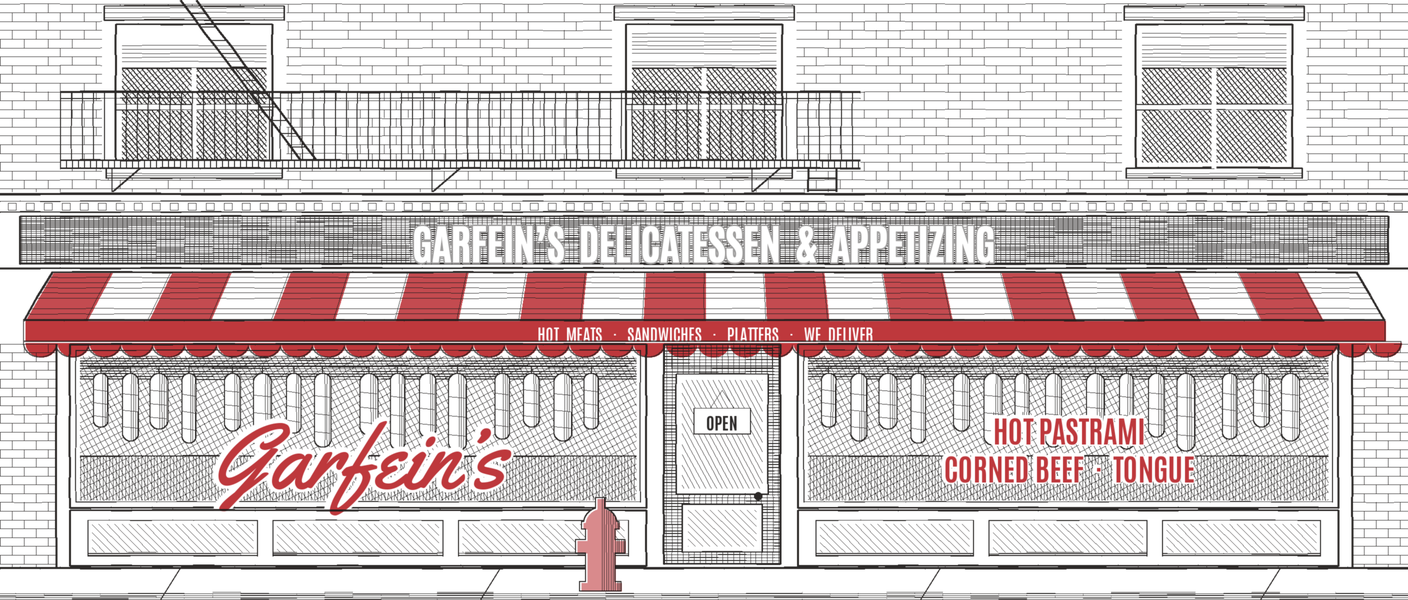
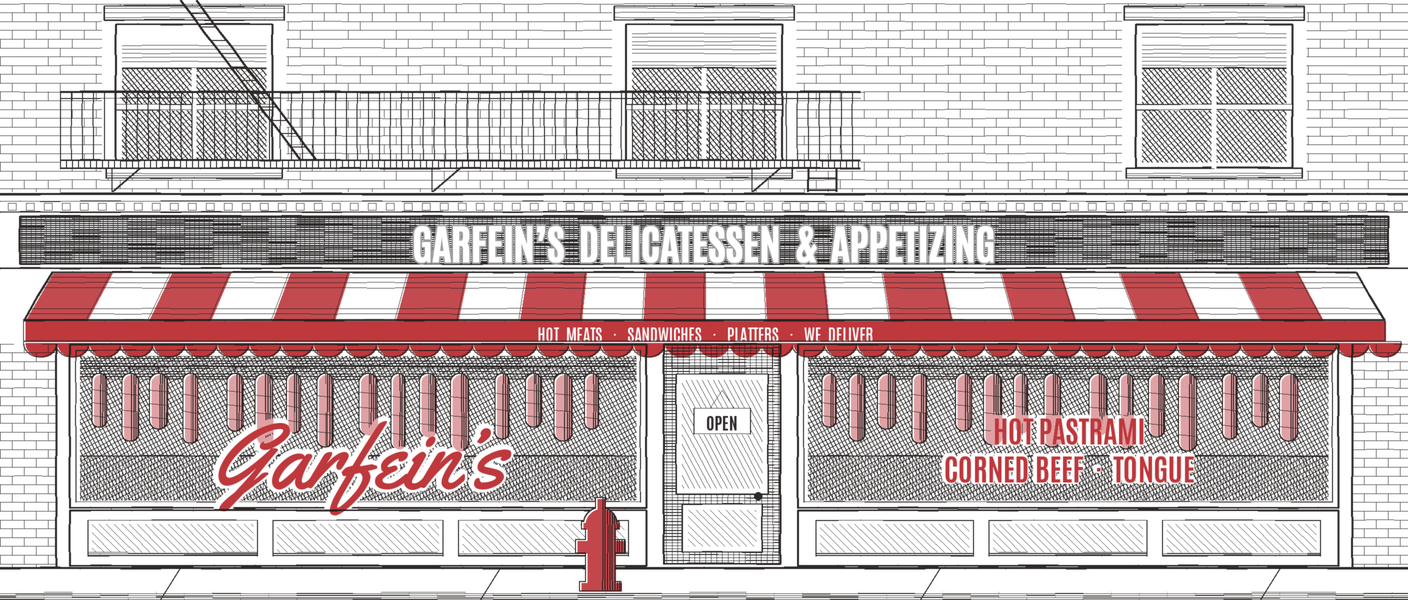
WIP: pilot builds in progress
Claude-Session: https://claude.ai/code/session_01X8MY2cd64W8hRNnJ8H5qJf

Changed region(s): [[0.0, 0.57, 1.0, 1.0], [0.0, 0.36, 1.0, 0.54]]

diff --git a/wip/print/pelham/paint.py b/wip/print/pelham/paint.py
@@ -11,73 +11,15 @@ A = os.path.join(D, 'assets'); F = os.path.join(D, 'fonts')
 BROWN = (46, 31, 24); ORANGE = (201, 83, 29)
 random.seed(123)
 
-# ---------- 1. halftone photo ----------
-STILL = os.path.join(D, 'assets', 'src-still.jpg')
+# ---------- 1. the photo: clean crop of the TMDB still, shadows lifted a touch for print ----------
+STILL = os.path.join(A, 'src-still.jpg')
 if not os.path.exists(STILL):
     subprocess.run(['curl', '-s', '-o', STILL, 'https://image.tmdb.org/t/p/original/syWyIUCzKB0xYiDpKlYbgV7ctGi.jpg'], check=True)
-BW, BH = 1440, 520                      # 2x of a 720 x 260 box
 src = Image.open(STILL).convert('RGB')
 sw, sh = src.size
-ch = int(sw * BH / BW); top = 170
-src = src.crop((0, top, sw, top + ch)).resize((BW, BH), Image.LANCZOS)
-
-
-def lum(im):
-    g = im.convert('L')
-    # the still is dark: lift the shadows so the platform, columns and roof read in print
-    lut = [int(255 * ((i / 255) ** 0.38)) for i in range(256)]
-    g = g.point(lut)
-    g = g.point(lambda v: max(0, min(255, int((v - 40) * 1.32))))
-    return g
-
-
-def screen(gray, cell, angle, gain=1.0, floor=0.0):
-    """Classic AM halftone: dark = big dots. Returns an L coverage mask."""
-    W0, H0 = gray.size
-    P = 80                                          # pad with edge pixels so the screen runs to the edges
-    padded = Image.new('L', (W0 + 2 * P, H0 + 2 * P))
-    padded.paste(gray.resize((W0 + 2 * P, H0 + 2 * P)), (0, 0)); padded.paste(gray, (P, P))
-    gray = padded; W, H = gray.size
-    rot = gray.rotate(angle, resample=Image.BICUBIC, expand=True, fillcolor=255)
-    rw, rh = rot.size
-    S = 4                                           # supersample for smooth dots
-    out = Image.new('L', (rw * S, rh * S), 0)
-    dr = ImageDraw.Draw(out)
-    px = rot.load()
-    for y in range(0, rh, cell):
-        for x in range(0, rw, cell):
-            cx, cy = min(rw - 1, x + cell // 2), min(rh - 1, y + cell // 2)
-            dark = (255 - px[cx, cy]) / 255 * gain
-            if dark <= floor:
-                continue
-            r = cell * 0.62 * math.sqrt(min(1.0, dark))
-            dr.ellipse(((x + cell / 2 - r) * S, (y + cell / 2 - r) * S, (x + cell / 2 + r) * S, (y + cell / 2 + r) * S), fill=255)
-    out = out.resize((rw, rh), Image.LANCZOS)
-    out = out.rotate(-angle, resample=Image.BICUBIC, expand=False)
-    ox, oy = (rw - W) // 2 + P, (rh - H) // 2 + P
-    return out.crop((ox, oy, ox + W0, oy + H0))
-
-
-g = lum(src)
-k = screen(g, 6, 45, gain=0.9)
-# second ink: the red headlights and the glow, pulled from the red channel's lead over green
-r, gg, b = src.split()
-red = ImageChops.subtract(r, gg).point(lambda v: min(255, v * 3))
-red = red.filter(ImageFilter.GaussianBlur(3))
-o = screen(Image.eval(red, lambda v: 255 - v), 6, 15, gain=1.0, floor=0.06)
-
-
-def ink(mask, col, alpha=1.0):
-    lay = Image.new('RGBA', mask.size, col + (0,))
-    lay.putalpha(mask.point(lambda v: int(v * alpha)))
-    return lay
-
-
-ph = Image.new('RGBA', (BW, BH), (0, 0, 0, 0))
-ph.alpha_composite(ink(o, ORANGE, 0.95), (2, 1))   # slight misregister of the second plate
-ph.alpha_composite(ink(k, BROWN, 0.86))
-# soft letterpress edge: ink a touch lighter toward the right, like a real press sheet
-ph.save(os.path.join(A, 'photo-halftone.png'))
+ph = src.crop((0, 120, sw, 120 + int(sw * 330 / 720)))
+ph = ph.point([int(255 * ((i % 256) / 255) ** 0.8) for i in range(768)])
+ph.resize((1440, 660), Image.LANCZOS).save(os.path.join(A, 'still-platform.jpg'), quality=90)
 
 # ---------- 2. guest check with clip and stamp ----------
 SW, SH = 520, 700                      # check paper at 2x (260 x 350 css)
@@ -218,14 +160,4 @@ can = can.rotate(3.2, resample=Image.BICUBIC, expand=False)
 can.save(os.path.join(A, 'guest-check.png'))
 print('guest check', can.size)
 
-# ---------- 3. paper wear for the card ----------
-PW, PH = 816, 1056
-small = Image.effect_noise((34, 44), 40).resize((PW, PH), Image.BICUBIC)   # big gentle mottling
-edge = Image.new('L', (PW, PH), 0)
-ed = ImageDraw.Draw(edge)
-ed.rectangle((0, 0, PW - 1, PH - 1), outline=255, width=22)
-edge = edge.filter(ImageFilter.GaussianBlur(26))
-m = ImageChops.add(edge.point(lambda v: int(v * .55)), small.point(lambda v: max(0, int((v - 110) * .35))))
-wl = Image.new('RGBA', (PW, PH), (150, 112, 60, 0)); wl.putalpha(m.point(lambda v: min(90, v)))
-wl.save(os.path.join(A, 'paper-wear.png'))
 print('done')

diff --git a/wip/print/dog-day-afternoon/build.py b/wip/print/dog-day-afternoon/build.py
@@ -36,28 +36,20 @@ def paper(face):
             f'<img src="assets/paper-wear-{face}.png" alt="" aria-hidden="true" style="position: absolute; left: 0; top: 0; width: {FW}px; height: {FH}px; pointer-events: none; display: block">')
 
 
-def section(title, sub, cols=None):
-    """Section head: a red ink tab with extra condensed caps, a fine rule, and the price column heads."""
-    ch = ''
-    if cols:
-        ch = ''.join(f'<div style="width: 58px; text-align: right; font-family: {CD}; font-weight: 800; font-size: 14px; letter-spacing: 0.08em; color: {RED}; text-transform: uppercase">{c}</div>' for c in cols)
-    return (f'<div style="display: flex; align-items: flex-end; border-bottom: 3px solid {INK}; padding-bottom: 6px; margin-bottom: 4px">'
-            f'<div style="background: {RED}; color: {PAPER}; font-family: {XC}; font-weight: 900; font-size: 30px; line-height: 1; letter-spacing: 0.04em; padding: 5px 10px 3px; text-transform: uppercase">{title}</div>'
-            f'<div style="flex: 1; padding: 0 0 2px 10px; font-family: {BODY}; font-style: italic; font-weight: 600; font-size: 15px; line-height: 1.1; color: {SOFT}">{sub}</div>'
-            f'{ch}</div>')
+def section(title, kicker):
+    """Jurassic system: spaced-caps kicker in the accent, then a dark label bar with paper-coloured caps."""
+    return (f'<div style="font-family: {CD}; font-weight: 800; font-size: 18px; line-height: 1; letter-spacing: 0.16em; color: {RED}; text-transform: uppercase">{kicker}</div>'
+            f'<div style="display: inline-block; margin-top: 7px; background: {INK}; color: {PAPER}; font-family: {XC}; font-weight: 900; font-size: 44px; line-height: 1; letter-spacing: 0.02em; padding: 6px 14px 3px; text-transform: uppercase">{title}</div>'
+            f'<div style="height: 2px; background: {INK}; margin: 8px 0 2px"></div>')
 
 
-def dish(name, desc, prices, note=None, star=False):
-    if isinstance(prices, str):
-        prices = [prices]
-    pr = ''.join(f'<div style="width: 58px; text-align: right; font-family: {CD}; font-weight: 800; font-size: 22px; line-height: 1; color: {INK}">{p}</div>' for p in prices)
-    nm_color = RED if star else INK
-    nt = (f'<div style="margin-top: 3px; font-family: {BODY}; font-style: italic; font-weight: 600; font-size: 15px; line-height: 1.25; color: {RED}">{note}</div>' if note else '')
-    ds = (f'<div style="margin-top: 3px; font-family: {BODY}; font-size: 16px; line-height: 1.32; color: {SOFT}; text-wrap: pretty">{desc}</div>' if desc else '')
-    return (f'<div style="padding: 9px 0 9px; border-bottom: 1px solid rgba(38,28,24,0.22)">'
-            f'<div style="display: flex; align-items: baseline">'
-            f'<div style="flex: 1; font-family: {CD}; font-weight: 800; font-size: 23px; line-height: 1.05; color: {nm_color}">{name}</div>{pr}</div>'
-            f'{ds}{nt}</div>')
+def dish(name, desc, price, star=False):
+    ds = (f'<div style="margin-top: 3px; font-family: {BODY}; font-size: 20px; line-height: 1.28; color: {SOFT}; text-wrap: pretty">{desc}</div>' if desc else '')
+    return (f'<div style="padding: 10px 0 8px">'
+            f'<div style="display: flex; align-items: baseline; gap: 12px">'
+            f'<div style="flex: 1; font-family: {CD}; font-weight: 800; font-size: 28px; line-height: 1.02; color: {RED if star else INK}">{name}</div>'
+            f'<div style="font-family: {CD}; font-weight: 800; font-size: 28px; line-height: 1; color: {INK}">{price}</div></div>'
+            f'{ds}</div>')
 
 
 def page(face, inner):

diff --git a/wip/print/serpico/paint.py b/wip/print/serpico/paint.py
@@ -125,7 +125,7 @@ x = 4
 while x < W: rect(di, x, 101.5, x + 4, 105, 0.45); x += 9                 # dentils
 line(di, 0, 106, W, 106, 0.9)
 board = region(box=(10, 108, W - 10, 132))
-hatch(ink, board, 0, 1.05, 0.62); hatch(ink, board, 90, 2.4, 0.3)
+hatch(ink, board, 0, 1.0, 0.85); hatch(ink, board, 90, 2.4, 0.3)
 rect(di, 10, 108, W - 10, 132, 1.1)
 f_sign = font('Antonio.ttf', 20.5, 700)
 tm = text_mask('GARFEIN’S  DELICATESSEN  &  APPETIZING', f_sign, W / 2, 120.6, stroke=1.0)
@@ -187,7 +187,7 @@ for x1, y1, x2, y2 in (LW, RW):
     rect(di, x1 - 5, y1 - 6, x2 + 5, y2 + 4, 1.2)
     rect(di, x1 - 2, y1 - 3, x2 + 2, y2 + 1, 0.6)
     glass = region(box=(x1, y1, x2, y2))
-    hatch(ink, glass, 62, 2.5, 0.48); hatch(ink, glass, -28, 3.3, 0.4)
+    hatch(ink, glass, 62, 1.7, 0.62); hatch(ink, glass, -28, 2.3, 0.5)
     hatch(ink, region(box=(x1, y1, x2, y1 + 12)), 0, 1.3, 0.5)              # awning shadow on the glass
     line(di, x1, y2 - 22, x2, y2 - 22, 0.8)                                 # counter line inside
     hatch(ink, region(box=(x1, y2 - 22, x2, y2)), 90, 1.6, 0.42)
@@ -204,7 +204,8 @@ for x1, y1, x2, y2 in (LW, RW):
         clear(ink, sal.filter(ImageFilter.MaxFilter(5)))
         e = ImageChops.subtract(sal.filter(ImageFilter.MaxFilter(5)), sal)
         ink.paste(ImageChops.lighter(ink, e), (0, 0))
-        hatch(ink, ImageChops.multiply(sal, region(box=(sx + wd * 0.08, y1, sx + wd, y2))), 90, 1.1, 0.4)
+        red.paste(ImageChops.lighter(red, ImageChops.multiply(sal, Image.new('L', (CW, CH), 120))), (0, 0))
+        hatch(ink, ImageChops.multiply(sal, region(box=(sx + wd * 0.08, y1, sx + wd, y2))), 90, 1.1, 0.5)
         for tt in (0.3, 0.55, 0.8):                                         # string ties
             line(di, sx - wd / 2, y1 + 9 + ln * tt, sx + wd / 2, y1 + 9 + ln * tt + 0.8, 0.45, 0)
         x += 15 if (k % 4) != 3 else 22
@@ -270,8 +271,8 @@ hd.rectangle([P(hx - 2, 249), P(hx + 2, 256)], fill=255)
 big = hm.filter(ImageFilter.MaxFilter(5))
 clear(ink, big)
 ink.paste(ImageChops.lighter(ink, ImageChops.subtract(big, hm)), (0, 0))
-hatch(ink, ImageChops.multiply(hm, region(box=(hx + 1, 240, hx + 14, 300))), 90, 1.1, 0.45)
-red.paste(ImageChops.lighter(red, ImageChops.multiply(hm, Image.new('L', (CW, CH), 150))), (0, 0))
+hatch(ink, ImageChops.multiply(hm, region(box=(hx + 1, 240, hx + 14, 300))), 90, 1.2, 0.6)
+red.paste(ImageChops.lighter(red, ImageChops.multiply(hm, Image.new('L', (CW, CH), 235))), (0, 0))
 
 # ---------------- compose two inks, red out of register ----------------
 def plate(cov, rgb, dx=0, dy=0, op=1.0):

diff --git a/wip/print/big/paint.py b/wip/print/big/paint.py
@@ -253,8 +253,6 @@ def wear(name, seed):
 if __name__ == '__main__':
     os.makedirs(A, exist_ok=True)
     cover_keys()
-    strip_keys()
-    clip()
     wear('front', 11)
     wear('back', 12)
     print('painted')
